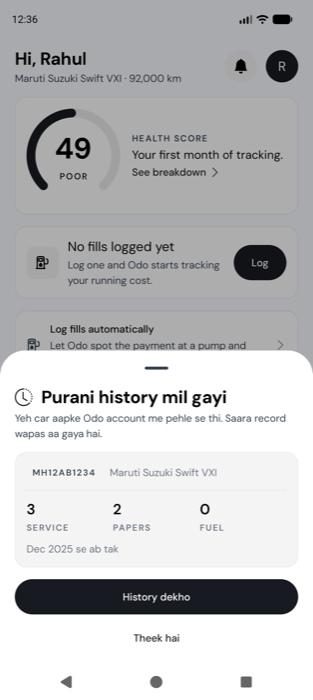
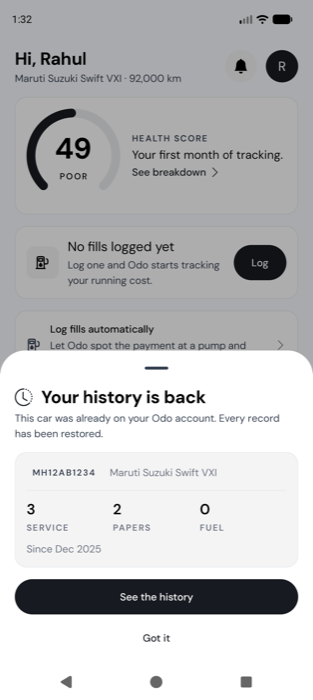
style(garage): write the restore sheet in English
The owner's call. The rest of the sheet's shape is unchanged.

The screenshot test splits into one capture per shape while it is here. It
drove both from one activity, which meant answering the first sheet and
announcing a second restore onto the screen that had just dismissed one —
a sequence no owner performs, and it stopped reopening the sheet at all. It
also now clears `documents` and `fuel_fills`, which `resetOwnerData` leaves
behind: a second run in the same process failed on a duplicate document id.

diff --git a/androidApp/src/androidTest/kotlin/com/hopcape/odo/RestoredHistoryScreenshotTest.kt b/androidApp/src/androidTest/kotlin/com/hopcape/odo/RestoredHistoryScreenshotTest.kt
@@ -14,6 +14,11 @@ import org.junit.runner.RunWith
  * possible: the sheet only appears after a sign-in sync has adopted a car the server already
  * held, which a local debug build has no Supabase session to do.
  *
+ * One capture per test, each on its own activity. The sheet is shown once per restore and
+ * answering it clears the marker, so driving both shapes in one run would mean re-announcing
+ * onto a screen that had just dismissed one — a sequence no owner performs and not what the
+ * pictures are meant to show.
+ *
  * Run it and collect the files with the two commands in `.github/screenshots/README.md`.
  */
 @RunWith(AndroidJUnit4::class)
@@ -27,6 +32,8 @@ class RestoredHistoryScreenshotTest {
             DeviceState {
                 resetProfile()
                 resetOwnerData()
+                resetRestorableRecords()
+                clearPendingRestore()
                 seedOnboardedOwner()
                 seedServiceHistory()
                 seedHomeValidDocuments()
@@ -35,33 +42,36 @@ class RestoredHistoryScreenshotTest {
         .around(rule)
 
     @Test
-    fun capturesTheSheetWithAndWithoutAnOdometerCorrection() {
-        // Let the dashboard settle first: the sheet rises over it, and a restore announced
-        // mid-load photographs the skeleton behind the scrim.
-        rule.awaitHomeLoaded()
-
-        // The reinstall case — the owner typed 12,000 km while re-adding the car and their
-        // history proves 54,000.
+    fun capturesTheSheetOfferingAnOdometerCorrection() {
+        // The reinstall case: the owner typed 12,000 km while re-adding the car, and the
+        // history that just came back proves 54,000.
         setCarOdometer(12_000)
-        announceRestore()
-        rule.awaitText(RestoredHistoryCopy.TITLE)
-        rule.captureScreen("after-odometer-correction")
-        rule.dismissRestoredHistory()
+        showTheRestore("after-odometer-correction")
+    }
 
-        // The same restore where the car's own reading is already the highest: the sheet
-        // welcomes them back and offers nothing to put right.
+    @Test
+    fun capturesTheSheetWithNothingToCorrect() {
+        // The same restore where the car's own reading is already the highest — a welcome
+        // with no question attached.
         setCarOdometer(92_000)
+        showTheRestore("after-inform-only")
+    }
+
+    /**
+     * Wait for the dashboard, announce the restore, photograph the sheet.
+     *
+     * The dashboard first because the sheet rises over it: a restore announced mid-load
+     * photographs the skeleton behind the scrim.
+     */
+    private fun showTheRestore(name: String) {
+        rule.awaitHomeLoaded()
         announceRestore()
         rule.awaitText(RestoredHistoryCopy.TITLE)
-        rule.captureScreen("after-inform-only")
+        rule.captureScreen(name)
     }
 }
 
 /** The sheet's copy, so the test waits on the shipped strings rather than a guess. */
 internal object RestoredHistoryCopy {
-    const val TITLE = "Purani history mil gayi"
-    const val DONE = "Theek hai"
-
-    /** The keep-my-reading button carries the number, so only its opening is fixed. */
-    const val KEEP_PREFIX = "Nahi,"
+    const val TITLE = "Your history is back"
 }

diff --git a/androidApp/src/androidTest/kotlin/com/hopcape/odo/RestoredHistoryFlowRobot.kt b/androidApp/src/androidTest/kotlin/com/hopcape/odo/RestoredHistoryFlowRobot.kt
@@ -1,22 +1,13 @@
 package com.hopcape.odo
 
-import androidx.compose.ui.test.junit4.AndroidComposeTestRule
-import androidx.compose.ui.test.onAllNodesWithText
-import androidx.compose.ui.test.onFirst
-import androidx.compose.ui.test.onNodeWithText
-import androidx.compose.ui.test.performClick
-import androidx.test.ext.junit.rules.ActivityScenarioRule
 import app.cash.sqldelight.db.SqlDriver
 import com.hopcape.odo.core.domain.car.model.CarId
 import com.hopcape.odo.core.domain.history.RestoredHistoryStore
 import kotlinx.coroutines.runBlocking
 import org.koin.core.context.GlobalContext
 
-private typealias RestoreTestRule =
-    AndroidComposeTestRule<ActivityScenarioRule<MainActivity>, MainActivity>
-
 /**
- * Driving the "your history came back" sheet (issue #425).
+ * Driving the "your history is back" sheet (issue #425).
  *
  * The marker is pushed straight into [RestoredHistoryStore] rather than through prefs: the
  * store is a Koin singleton holding the flow the app shell collects, so a prefs write behind
@@ -27,25 +18,26 @@ internal fun announceRestore(carId: String = LogFixtures.CAR) {
     runBlocking { store.record(CarId(carId)) }
 }
 
+/** Forget any restore left pending, so a test starts with nothing waiting to be announced. */
+internal fun clearPendingRestore() {
+    val store: RestoredHistoryStore = GlobalContext.get().get()
+    runBlocking { store.clear() }
+}
+
+/**
+ * Clear the two tables the sheet counts that [resetOwnerData] leaves behind.
+ *
+ * Without this a second run in the same process fails on a duplicate document id, and any
+ * fuel fill another test left would be counted as part of this restore.
+ */
+internal fun resetRestorableRecords() = with(GlobalContext.get().get<SqlDriver>()) {
+    execute(null, "DELETE FROM documents", 0)
+    execute(null, "DELETE FROM fuel_fills", 0)
+    notifyListeners("documents", "fuel_fills")
+}
+
 /** Put the owner's own reading where a test needs it, without going through the sheet. */
 internal fun setCarOdometer(km: Int) = with(GlobalContext.get().get<SqlDriver>()) {
     execute(null, "UPDATE cars SET current_odometer_km = $km WHERE id = '${LogFixtures.CAR}'", 0)
     notifyListeners("cars")
-}
-
-/**
- * Close the sheet the way an owner does, so the next capture starts from the dashboard.
- *
- * The low-emphasis button is worded differently in the two shapes — "Theek hai" when there
- * is nothing to correct, "Nahi, … hi rakho" when there is — so this takes whichever is on
- * screen rather than assuming one.
- */
-internal fun RestoreTestRule.dismissRestoredHistory() {
-    val keep = onAllNodesWithText(RestoredHistoryCopy.KEEP_PREFIX, substring = true)
-    if (keep.fetchSemanticsNodes().isNotEmpty()) {
-        keep.onFirst().performClick()
-    } else {
-        onNodeWithText(RestoredHistoryCopy.DONE).performClick()
-    }
-    awaitGone(RestoredHistoryCopy.TITLE)
 }
